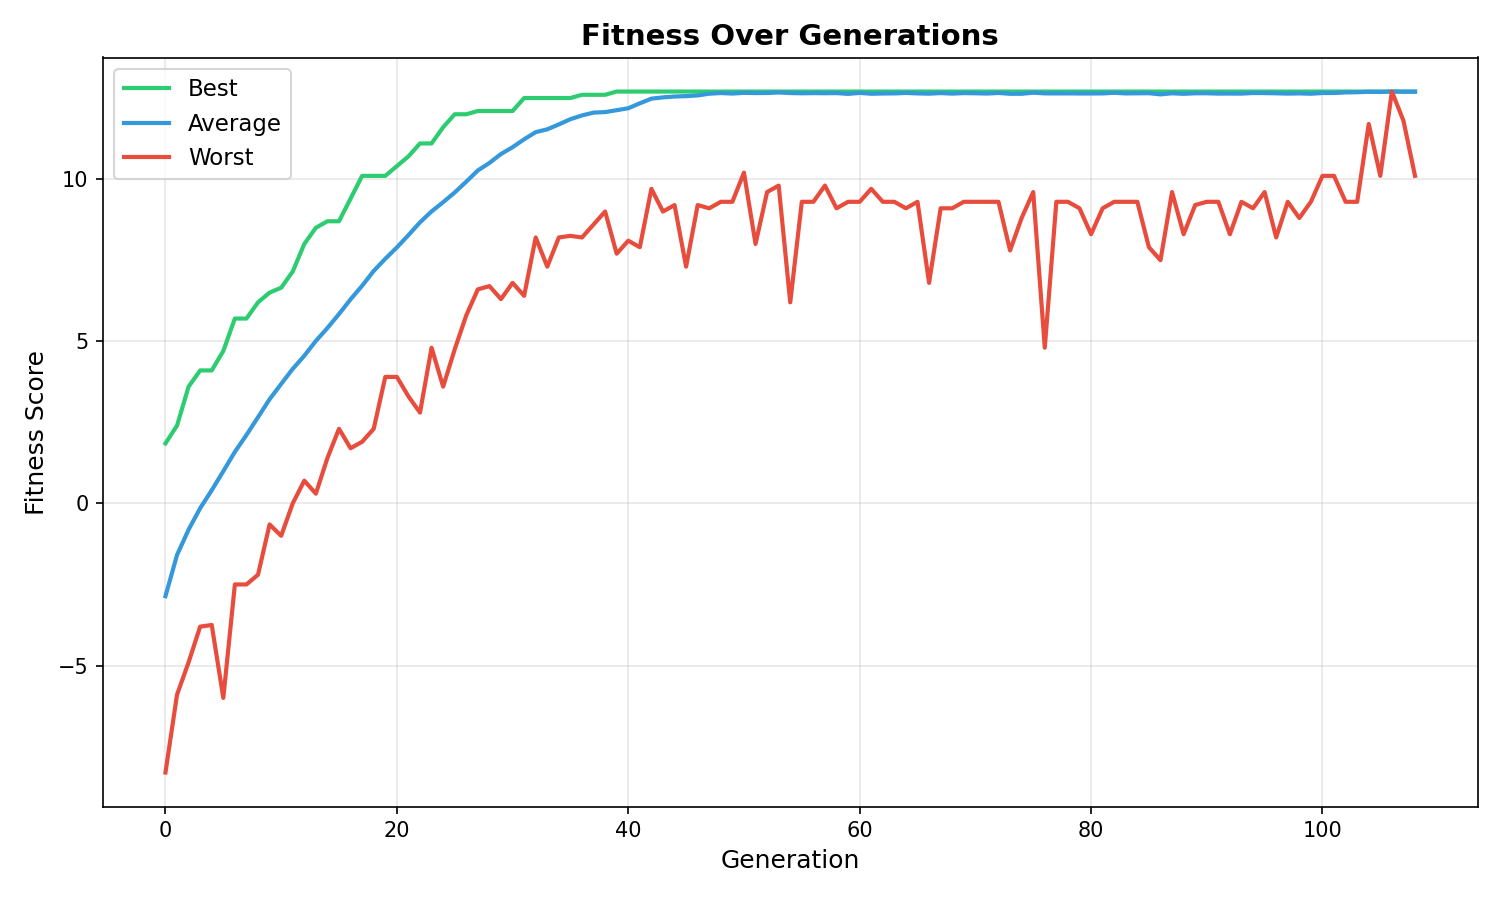
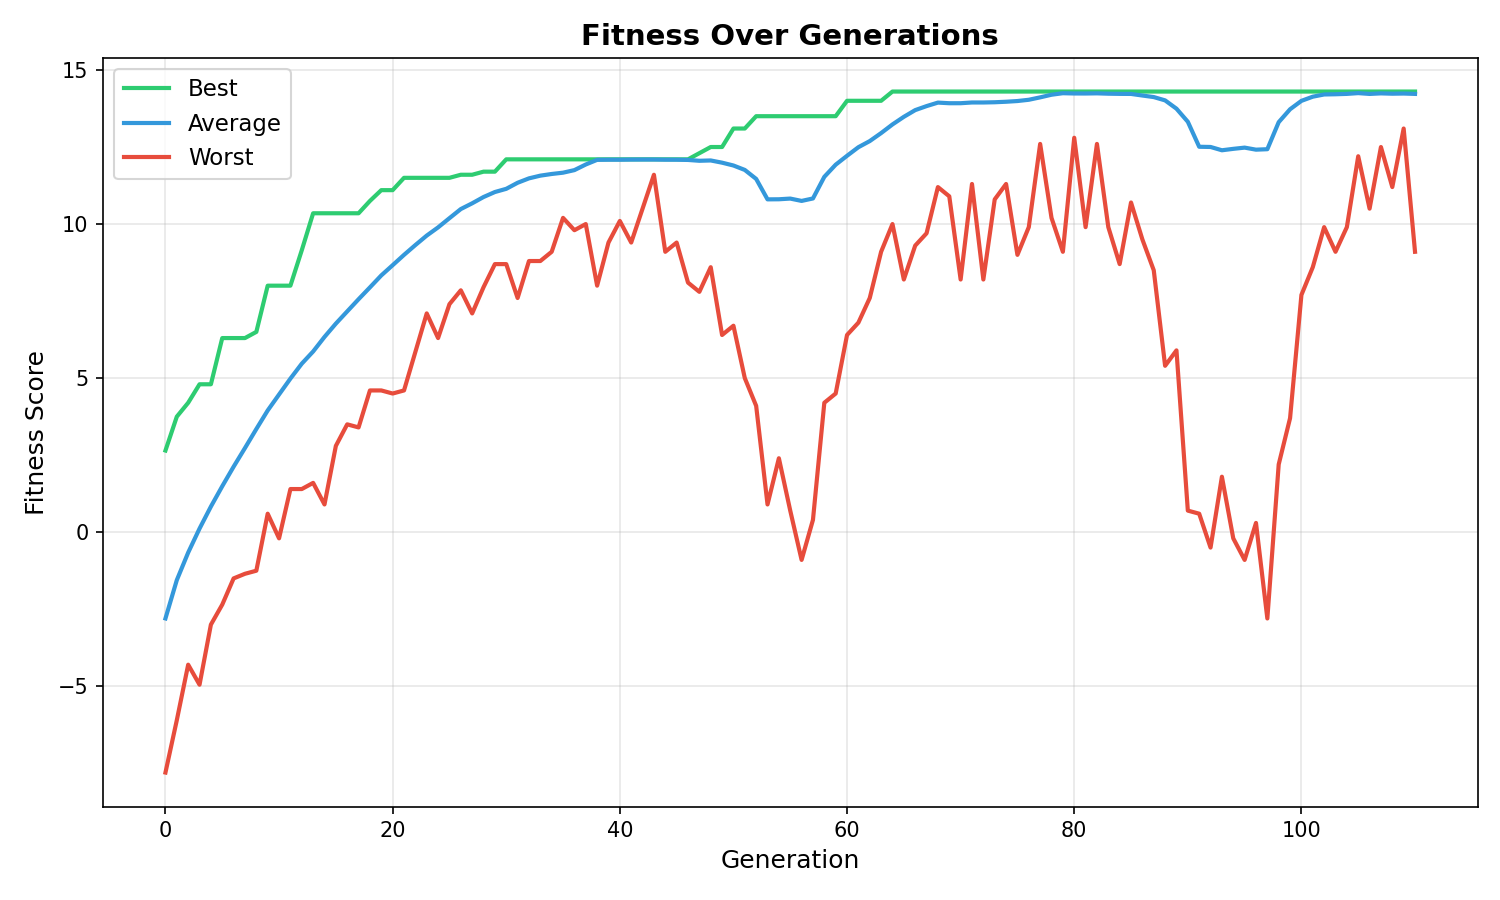
refactor(mutation): adaptive mutation rate, softmax selection, single-point crossover
- Fix adaptive mutation rate: increase on stall, decrease on improvement (was inverted)
- Apply adaptive logic to all gens including mandatory phase 1
- Fix double-counting of activity_specific_score in score_population
- Switch crossover to single-point (was two-point slice swap)
- Add softmax parent selection weighted by fitness
- Replace random module with NumPy PCG64DXSM RNG

diff --git a/mutation.py b/mutation.py
@@ -1,16 +1,23 @@
-import random
 import copy
+import numpy as np
+from numpy.random import Generator, PCG64DXSM
+
 from generation import Generation
 from fitness_functions import evaluate_fitness
-from cs_activity_specific_adjustments import activity_specific_score
 from Schedule_Generator import load_all_data
 
+# --- RNG ---
+# PCG64DXSM is higher quality than Python's default Mersenne Twister,
+# especially important for large populations where MT can show correlations.
+rng = Generator(PCG64DXSM())
 
 # --- Constants ---
-POPULATION_SIZE   = 1000
-BASE_MUTATION_RATE = 0.01   # 1% per gene to start
-MIN_IMPROVEMENT   = 0.01    # 1% threshold — if avg fitness improves less than this, halve mutation rate
-STOP_IMPROVEMENT  = 0.001   # near-zero floor — stop when improvement drops below this
+POPULATION_SIZE    = 1000
+BASE_MUTATION_RATE = 0.01   # starting mutation rate
+STOP_IMPROVEMENT   = 0.001  # near-zero floor — stop when improvement drops below this (Phase 2 only)
+MAX_MUTATION_RATE  = 0.25   # cap: never mutate more than 25% of genes
+MIN_MUTATION_RATE  = 0.001  # floor: never drop below 0.1%
+MANDATORY_GENS     = 100    # minimum generations before stop condition is checked
 
 
 def sort_schedules(schedules: list) -> list:
@@ -25,23 +32,40 @@ def cull_bottom_half(schedules: list) -> list:
     return sorted_schedules[:cutoff]
 
 
+def softmax_select(schedules: list, n: int) -> list:
+    """
+    Select n schedules with probability proportional to softmax(fitness).
+    Softmax converts raw fitness scores into a proper probability distribution,
+    so fitter schedules are more likely to be chosen as parents without
+    completely excluding weaker ones (preserving diversity).
+    The subtraction of max(scores) before exp() is a standard numerical
+    stability trick to prevent overflow.
+    """
+    scores = np.array([s.fitness for s in schedules], dtype=np.float64)
+    scores -= scores.max()           # numerical stability
+    weights = np.exp(scores)
+    weights /= weights.sum()         # normalize to probabilities
+    indices = rng.choice(len(schedules), size=n, replace=False, p=weights)
+    return [schedules[i] for i in indices]
+
+
 def crossover(parent_a, parent_b) -> tuple:
     """
-    Produce two children by swapping a random gene slice between two parents.
-    Each pair gets its own independently random splice range.
-    Parents are deep-copied so originals are not mutated.
+    Single-point crossover: pick one splice index, everything before it
+    comes from parent A, everything from it onward comes from parent B
+    (and vice versa for the second child).
+    Parents are deep-copied so originals are never modified.
     """
     num_genes = len(parent_a.genes)
 
-    # pick two distinct indices for the splice range
-    idx1, idx2 = sorted(random.sample(range(num_genes), 2))
+    # randint(1, num_genes) ensures at least one gene from each parent
+    idx = rng.integers(1, num_genes)
 
     child_a = copy.deepcopy(parent_a)
     child_b = copy.deepcopy(parent_b)
 
-    # swap the slice between the two children
-    child_a.genes[idx1:idx2] = copy.deepcopy(parent_b.genes[idx1:idx2])
-    child_b.genes[idx1:idx2] = copy.deepcopy(parent_a.genes[idx1:idx2])
+    child_a.genes = copy.deepcopy(parent_a.genes[:idx]) + copy.deepcopy(parent_b.genes[idx:])
+    child_b.genes = copy.deepcopy(parent_b.genes[:idx]) + copy.deepcopy(parent_a.genes[idx:])
 
     child_a.fitness = 0.0
     child_b.fitness = 0.0
@@ -55,49 +79,47 @@ def mutate(schedule, mutation_rate: float, rooms: list, times: list, facilitator
     If triggered, randomly replace the time, room, or facilitator.
     """
     for gene in schedule.genes:
-        if random.random() < mutation_rate:
-            attribute = random.choice(['time', 'room', 'facilitator'])
+        if rng.random() < mutation_rate:
+            attribute = rng.choice(['time', 'room', 'facilitator'])
             if attribute == 'time':
-                gene.time = random.choice(times)
+                gene.time = rng.choice(times)
             elif attribute == 'room':
-                gene.room = random.choice(rooms)
+                gene.room = rng.choice(rooms)
             else:
-                gene.facilitator = random.choice(facilitators)
+                gene.facilitator = rng.choice(facilitators)
 
 
 def score_population(schedules: list):
     """Evaluate and store fitness for every schedule in the list."""
     for schedule in schedules:
-        schedule.fitness = activity_specific_score(schedule)
-        evaluate_fitness(schedule)
+        evaluate_fitness(schedule)  # resets fitness to 0.0 and runs all checks internally
 
 
 def run_one_generation(current_population, mutation_rate, rooms, times, facilitators):
     """
     Run a single generation cycle:
       1. Cull bottom 50%
-      2. Crossover survivors into new children
-      3. Mutate children
-      4. Score children
-      5. Merge and re-sort, keeping top POPULATION_SIZE
+      2. Softmax-weighted selection of parent pairs
+      3. Single-point crossover to produce children
+      4. Mutate children
+      5. Score children
+      6. Merge and re-sort, keeping top POPULATION_SIZE
     Returns the new population and its stats.
     """
     # --- Cull bottom 50% ---
     survivors = cull_bottom_half(current_population)
 
-    # --- Crossover: randomly pair survivors to produce children ---
-    shuffled = survivors[:]
-    random.shuffle(shuffled)
+    # --- Softmax-weighted parent selection ---
+    # Select the same number of parents as survivors so we produce enough children.
+    # Pairing is done sequentially after selection (selected[0] x selected[1], etc.)
+    n_parents = len(survivors) if len(survivors) % 2 == 0 else len(survivors) - 1
+    selected = softmax_select(survivors, n_parents)
 
     children = []
-    for i in range(0, len(shuffled) - 1, 2):
-        child_a, child_b = crossover(shuffled[i], shuffled[i + 1])
+    for i in range(0, n_parents, 2):
+        child_a, child_b = crossover(selected[i], selected[i + 1])
         children.append(child_a)
         children.append(child_b)
-
-    # if odd number of survivors, carry last one over unchanged
-    if len(shuffled) % 2 == 1:
-        children.append(copy.deepcopy(shuffled[-1]))
 
     # --- Mutate children ---
     for child in children:
@@ -119,17 +141,47 @@ def run_one_generation(current_population, mutation_rate, rooms, times, facilita
     return new_population, best_fit, avg_fit, worst_fit
 
 
+def adapt_mutation_rate(mutation_rate: float, improvement: float) -> tuple[float, str]:
+    """
+    Adjust mutation rate based on rolling improvement.
+    - Any positive improvement → halve rate (population is making progress, fine-tune)
+    - Zero or negative improvement → double rate (population is stalling, explore)
+    Returns the new rate and a log message (empty string if no change).
+    """
+    if improvement > 0:
+        new_rate = max(mutation_rate / 2, MIN_MUTATION_RATE)
+        direction = "down"
+    else:
+        new_rate = min(mutation_rate * 2, MAX_MUTATION_RATE)
+        direction = "up"
+
+    if new_rate != mutation_rate:
+        msg = (f"  >> Rolling improvement ({improvement:.6f}) — "
+               f"adjusting mutation rate {direction}: {mutation_rate:.6f} → {new_rate:.6f}")
+    else:
+        msg = ""
+    return new_rate, msg
+
+
+def compute_improvement(history: list, prev_avg: float, avg_fit: float) -> float:
+    """
+    Rolling average improvement per generation over the last 5 entries.
+    Falls back to single-step delta when history is too short.
+    """
+    if len(history) >= 5:
+        recent_avgs = [h['avg'] for h in history[-5:]]
+        return (recent_avgs[-1] - recent_avgs[0]) / 4
+    return avg_fit - prev_avg
+
+
 def run_evolution():
     """
-    Main loop:
+    Unified adaptive evolution loop.
 
-    Phase 1 — first 100 generations (mandatory):
-      Run unconditionally, using BASE_MUTATION_RATE.
-
-    Phase 2 — after 100 generations:
-      Each generation, compute improvement = current_avg - previous_avg.
-      - If improvement < MIN_IMPROVEMENT (1%): halve the mutation rate and keep going.
-      - If improvement < STOP_IMPROVEMENT (near zero): stop.
+    Every generation (including the mandatory first 100) uses the same
+    adaptive mutation logic: rate doubles when progress stalls, halves
+    when progress is strong. The only difference between Phase 1 and
+    Phase 2 is that the stop condition is not checked until gen 100.
     """
     _, rooms, times, facilitators = load_all_data()
 
@@ -153,36 +205,13 @@ def run_evolution():
     current_population = gen0.schedules
     prev_avg = gen0.avg_fit
     mutation_rate = BASE_MUTATION_RATE
+    gen_num = 1
 
-    # ---- Phase 1: mandatory 100 generations ----
-    for gen_num in range(1, 101):
-        current_population, best_fit, avg_fit, worst_fit = run_one_generation(
-            current_population, mutation_rate, rooms, times, facilitators
-        )
-
-        history.append({
-            'generation': gen_num,
-            'best': best_fit,
-            'worst': worst_fit,
-            'avg': avg_fit,
-            'mutation_rate': mutation_rate,
-        })
-
-        print(f"Gen {gen_num:>3} — best: {best_fit:.3f}, avg: {avg_fit:.3f}, "
-              f"worst: {worst_fit:.3f}, mutation: {mutation_rate:.6f}")
-
-        prev_avg = avg_fit
-
-    print("\n--- Mandatory 100 generations complete. Entering adaptive phase. ---\n")
-
-    # ---- Phase 2: adaptive stopping ----
-    gen_num = 101
     while True:
         current_population, best_fit, avg_fit, worst_fit = run_one_generation(
             current_population, mutation_rate, rooms, times, facilitators
         )
 
-        # append first so the rolling window includes the current generation
         history.append({
             'generation': gen_num,
             'best': best_fit,
@@ -191,24 +220,20 @@ def run_evolution():
             'mutation_rate': mutation_rate,
         })
 
-        # rolling window: average improvement per generation over last 5 gens
-        if len(history) >= 5:
-            recent_avgs = [h['avg'] for h in history[-5:]]
-            improvement = (recent_avgs[-1] - recent_avgs[0]) / 4
-        else:
-            improvement = avg_fit - prev_avg
+        improvement = compute_improvement(history, prev_avg, avg_fit)
+        mutation_rate, rate_msg = adapt_mutation_rate(mutation_rate, improvement)
+        if rate_msg:
+            print(rate_msg)
 
-        # halve condition: avg improvement dropped below 1%
-        if improvement < MIN_IMPROVEMENT:
-            mutation_rate /= 2
-            print(f"  >> Rolling improvement ({improvement:.6f}) < {MIN_IMPROVEMENT} — "
-                  f"halving mutation rate to {mutation_rate:.6f}")
-
-        print(f"Gen {gen_num:>3} — best: {best_fit:.3f}, avg: {avg_fit:.3f}, "
+        phase = "mandatory" if gen_num <= MANDATORY_GENS else "adaptive"
+        print(f"Gen {gen_num:>3} [{phase}] — best: {best_fit:.3f}, avg: {avg_fit:.3f}, "
               f"worst: {worst_fit:.3f}, mutation: {mutation_rate:.6f}")
 
-        # stop condition: rolling improvement is near zero even after halving
-        if abs(improvement) < STOP_IMPROVEMENT:
+        if gen_num == MANDATORY_GENS:
+            print("\n--- Mandatory 100 generations complete. Stop condition now active. ---\n")
+
+        # stop condition only applies after mandatory phase
+        if gen_num > MANDATORY_GENS and abs(improvement) < STOP_IMPROVEMENT:
             print(f"\nStopping: rolling improvement ({improvement:.6f}) is below floor ({STOP_IMPROVEMENT}).")
             break
 

diff --git a/generation.py b/generation.py
@@ -15,8 +15,6 @@ class Generation:
         for i in range(1000):
             schedule = generate_random_schedule(courses, rooms, times, facilitators)
             self.schedules.append(schedule)
-            if i == 0:
-                print(schedule.genes[0].time, schedule.genes[1].time)
     def calc_fitness(self):
         fitness_scores = []
         best = None
